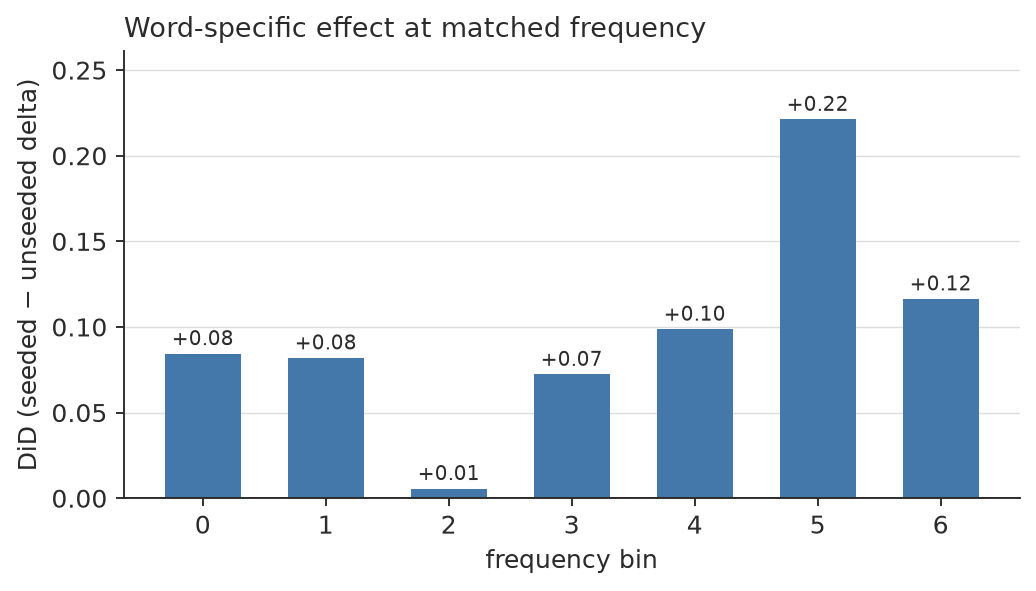
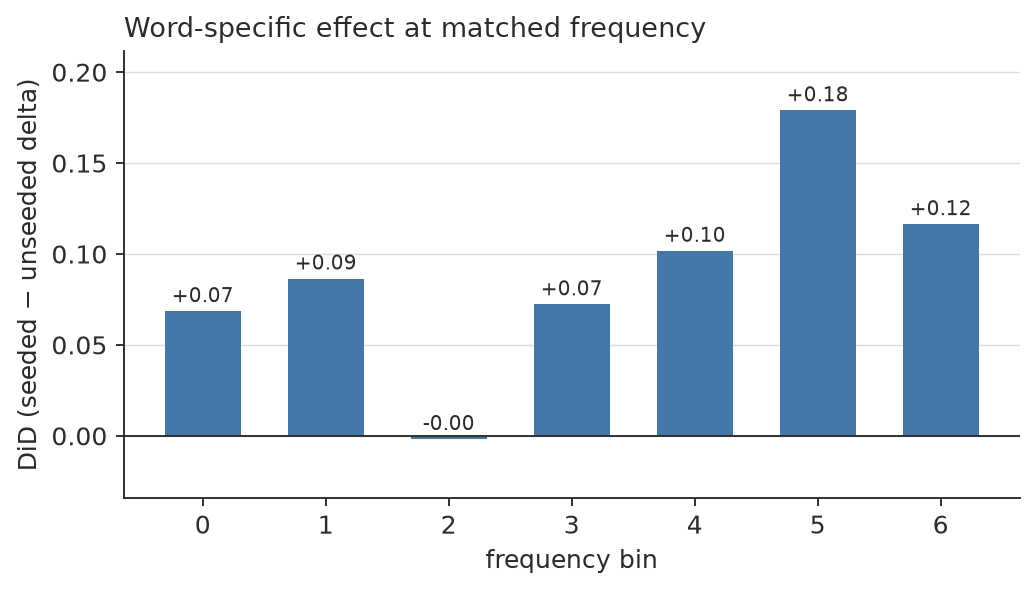
Regenerate VP-Swap results and figures after article-agreement fix

diff --git a/eval/vpswap_results.md b/eval/vpswap_results.md
@@ -6,101 +6,101 @@ vision-init: `deberta-base-75k-sam` | baseline: `deberta-base-75k`
 
 | words (M) | vision | baseline | delta |
 |--:|--:|--:|--:|
-| 0 | 0.492 | 0.503 | -0.011 |
-| 1 | 0.514 | 0.498 | +0.016 |
-| 2 | 0.527 | 0.501 | +0.025 |
-| 3 | 0.536 | 0.502 | +0.034 |
-| 4 | 0.536 | 0.502 | +0.034 |
-| 5 | 0.536 | 0.502 | +0.034 |
-| 6 | 0.546 | 0.512 | +0.034 |
-| 7 | 0.546 | 0.512 | +0.034 |
-| 8 | 0.546 | 0.512 | +0.034 |
-| 9 | 0.546 | 0.512 | +0.034 |
-| 10 | 0.549 | 0.512 | +0.037 |
-| 20 | 0.561 | 0.529 | +0.032 |
-| 30 | 0.580 | 0.546 | +0.035 |
-| 40 | 0.586 | 0.559 | +0.028 |
-| 50 | 0.603 | 0.568 | +0.035 |
-| 60 | 0.612 | 0.589 | +0.023 |
-| 70 | 0.621 | 0.598 | +0.023 |
-| 80 | 0.634 | 0.611 | +0.023 |
-| 90 | 0.632 | 0.613 | +0.019 |
-| 100 | 0.634 | 0.615 | +0.019 |
+| 0 | 0.489 | 0.499 | -0.010 |
+| 1 | 0.504 | 0.495 | +0.009 |
+| 2 | 0.516 | 0.490 | +0.026 |
+| 3 | 0.521 | 0.486 | +0.035 |
+| 4 | 0.521 | 0.486 | +0.035 |
+| 5 | 0.521 | 0.486 | +0.035 |
+| 6 | 0.529 | 0.497 | +0.032 |
+| 7 | 0.529 | 0.497 | +0.032 |
+| 8 | 0.529 | 0.497 | +0.032 |
+| 9 | 0.529 | 0.497 | +0.032 |
+| 10 | 0.534 | 0.496 | +0.037 |
+| 20 | 0.543 | 0.511 | +0.031 |
+| 30 | 0.562 | 0.527 | +0.035 |
+| 40 | 0.566 | 0.540 | +0.026 |
+| 50 | 0.584 | 0.548 | +0.036 |
+| 60 | 0.592 | 0.568 | +0.025 |
+| 70 | 0.602 | 0.576 | +0.025 |
+| 80 | 0.614 | 0.588 | +0.026 |
+| 90 | 0.611 | 0.590 | +0.021 |
+| 100 | 0.613 | 0.591 | +0.022 |
 
 ## Final checkpoint (100M), 7416 paired items
 
-McNemar: vision-only-correct 789, baseline-only-correct 647, **z = 3.75**
+McNemar: vision-only-correct 776, baseline-only-correct 613, **z = 4.37**
 
 
 ### by property
 
 | group | n | vision | baseline | delta |
 |--|--:|--:|--:|--:|
-| color | 1730 | 0.655 | 0.622 | +0.034 |
-| material | 1928 | 0.658 | 0.644 | +0.013 |
-| relative_size | 1888 | 0.609 | 0.596 | +0.013 |
-| shape | 1870 | 0.614 | 0.596 | +0.018 |
+| color | 1730 | 0.639 | 0.605 | +0.035 |
+| material | 1928 | 0.646 | 0.631 | +0.015 |
+| relative_size | 1888 | 0.575 | 0.560 | +0.015 |
+| shape | 1870 | 0.594 | 0.570 | +0.024 |
 
 ### by frame
 
 | group | n | vision | baseline | delta |
 |--|--:|--:|--:|--:|
 | attributive | 1890 | 0.658 | 0.635 | +0.023 |
-| copular | 1244 | 0.562 | 0.578 | -0.016 |
-| existential | 1680 | 0.674 | 0.643 | +0.030 |
-| relative | 2602 | 0.625 | 0.598 | +0.026 |
+| copular | 1244 | 0.469 | 0.470 | -0.001 |
+| existential | 1680 | 0.652 | 0.621 | +0.031 |
+| relative | 2602 | 0.624 | 0.598 | +0.027 |
 
 ### by seeded (orig word)
 
 | group | n | vision | baseline | delta |
 |--|--:|--:|--:|--:|
-| seeded | 6242 | 0.657 | 0.625 | +0.032 |
-| unseeded | 1174 | 0.512 | 0.560 | -0.048 |
+| seeded | 6242 | 0.636 | 0.602 | +0.034 |
+| unseeded | 1174 | 0.493 | 0.533 | -0.040 |
 
 ### by frequency bin
 
 | group | n | vision | baseline | delta |
 |--|--:|--:|--:|--:|
-| 0 | 642 | 0.522 | 0.526 | -0.005 |
-| 1 | 734 | 0.535 | 0.545 | -0.010 |
-| 2 | 650 | 0.526 | 0.517 | +0.009 |
-| 3 | 794 | 0.525 | 0.523 | +0.003 |
-| 4 | 778 | 0.589 | 0.582 | +0.006 |
-| 5 | 756 | 0.669 | 0.626 | +0.044 |
-| 6 | 800 | 0.720 | 0.676 | +0.044 |
-| 7 | 804 | 0.733 | 0.695 | +0.037 |
-| 8 | 752 | 0.735 | 0.707 | +0.028 |
+| 0 | 642 | 0.497 | 0.497 | +0.000 |
+| 1 | 734 | 0.512 | 0.511 | +0.001 |
+| 2 | 650 | 0.492 | 0.483 | +0.009 |
+| 3 | 794 | 0.520 | 0.518 | +0.003 |
+| 4 | 778 | 0.564 | 0.555 | +0.009 |
+| 5 | 756 | 0.630 | 0.585 | +0.045 |
+| 6 | 800 | 0.714 | 0.670 | +0.044 |
+| 7 | 804 | 0.700 | 0.658 | +0.042 |
+| 8 | 752 | 0.718 | 0.686 | +0.032 |
 | 9 | 706 | 0.752 | 0.724 | +0.028 |
 
 ### Seeded-vs-unseeded delta within frequency bins (diff-in-differences)
 
 | bin | n seeded | d seeded | n unseeded | d unseeded | DiD |
 |--:|--:|--:|--:|--:|--:|
-| 0 | 330 | +0.036 | 312 | -0.048 | +0.084 |
-| 1 | 481 | +0.019 | 253 | -0.063 | +0.082 |
-| 2 | 459 | +0.011 | 191 | +0.005 | +0.006 |
+| 0 | 330 | +0.033 | 312 | -0.035 | +0.069 |
+| 1 | 481 | +0.031 | 253 | -0.055 | +0.087 |
+| 2 | 459 | +0.009 | 191 | +0.010 | -0.002 |
 | 3 | 630 | +0.017 | 164 | -0.055 | +0.072 |
-| 4 | 662 | +0.021 | 116 | -0.078 | +0.099 |
-| 5 | 707 | +0.058 | 49 | -0.163 | +0.221 |
+| 4 | 662 | +0.024 | 116 | -0.078 | +0.102 |
+| 5 | 707 | +0.057 | 49 | -0.122 | +0.179 |
 | 6 | 737 | +0.053 | 63 | -0.063 | +0.116 |
-| 7 | 781 | +0.035 | 23 | -- | -- |
-| 8 | 749 | +0.027 | 3 | -- | -- |
+| 7 | 781 | +0.040 | 23 | -- | -- |
+| 8 | 749 | +0.031 | 3 | -- | -- |
 | 9 | 706 | +0.028 | 0 | -- | -- |
 
 ### 2x2 orig-seeded x swap-seeded @ chck_50M
 
 | orig | swap | n | vision | baseline | delta |
 |--|--|--:|--:|--:|--:|
-| S | S | 5378 | 0.624 | 0.583 | +0.041 |
-| S | U | 864 | 0.594 | 0.542 | +0.052 |
-| U | S | 864 | 0.508 | 0.516 | -0.008 |
-| U | U | 310 | 0.523 | 0.523 | +0.000 |
+| S | S | 5378 | 0.607 | 0.563 | +0.044 |
+| S | U | 864 | 0.571 | 0.520 | +0.051 |
+| U | S | 864 | 0.485 | 0.498 | -0.013 |
+| U | U | 310 | 0.500 | 0.497 | +0.003 |
 
 ### 2x2 orig-seeded x swap-seeded @ chck_100M
 
 | orig | swap | n | vision | baseline | delta |
 |--|--|--:|--:|--:|--:|
-| S | S | 5378 | 0.666 | 0.638 | +0.029 |
-| S | U | 864 | 0.596 | 0.545 | +0.051 |
-| U | S | 864 | 0.502 | 0.559 | -0.057 |
-| U | U | 310 | 0.539 | 0.561 | -0.023 |
+| S | S | 5378 | 0.647 | 0.616 | +0.031 |
+| S | U | 864 | 0.568 | 0.517 | +0.051 |
+| U | S | 864 | 0.485 | 0.534 | -0.049 |
+| U | U | 310 | 0.516 | 0.532 | -0.016 |

diff --git a/eval/seed_results.md b/eval/seed_results.md
@@ -4,32 +4,32 @@
 
 | words (M) | s1 | s2 | s3 | mean |
 |--:|--:|--:|--:|--:|
-| 0 | -0.011 | -0.003 | -0.001 | -0.005 |
-| 1 | +0.016 | +0.021 | +0.018 | +0.018 |
-| 2 | +0.025 | +0.023 | +0.023 | +0.024 |
-| 3 | +0.034 | +0.035 | +0.032 | +0.033 |
-| 4 | +0.034 | +0.035 | +0.032 | +0.033 |
-| 5 | +0.034 | +0.035 | +0.032 | +0.033 |
-| 6 | +0.034 | +0.039 | +0.038 | +0.037 |
-| 7 | +0.034 | +0.039 | +0.038 | +0.037 |
-| 8 | +0.034 | +0.039 | +0.038 | +0.037 |
-| 9 | +0.034 | +0.039 | +0.038 | +0.037 |
-| 10 | +0.037 | +0.017 | +0.032 | +0.029 |
-| 20 | +0.032 | +0.024 | +0.022 | +0.026 |
-| 30 | +0.035 | +0.031 | +0.028 | +0.031 |
-| 40 | +0.028 | +0.015 | +0.037 | +0.027 |
-| 50 | +0.035 | +0.022 | +0.031 | +0.029 |
-| 60 | +0.023 | +0.029 | +0.027 | +0.026 |
-| 70 | +0.023 | +0.030 | +0.034 | +0.029 |
-| 80 | +0.023 | +0.041 | +0.026 | +0.030 |
-| 90 | +0.019 | +0.029 | +0.029 | +0.026 |
-| 100 | +0.019 | +0.027 | +0.030 | +0.025 |
+| 0 | -0.010 | -0.009 | -0.002 | -0.007 |
+| 1 | +0.009 | +0.015 | +0.013 | +0.012 |
+| 2 | +0.026 | +0.027 | +0.028 | +0.027 |
+| 3 | +0.035 | +0.036 | +0.030 | +0.034 |
+| 4 | +0.035 | +0.036 | +0.030 | +0.034 |
+| 5 | +0.035 | +0.036 | +0.030 | +0.034 |
+| 6 | +0.032 | +0.040 | +0.040 | +0.037 |
+| 7 | +0.032 | +0.040 | +0.040 | +0.037 |
+| 8 | +0.032 | +0.040 | +0.040 | +0.037 |
+| 9 | +0.032 | +0.040 | +0.040 | +0.037 |
+| 10 | +0.037 | +0.015 | +0.032 | +0.028 |
+| 20 | +0.031 | +0.024 | +0.023 | +0.026 |
+| 30 | +0.035 | +0.034 | +0.028 | +0.032 |
+| 40 | +0.026 | +0.016 | +0.039 | +0.027 |
+| 50 | +0.036 | +0.023 | +0.031 | +0.030 |
+| 60 | +0.025 | +0.027 | +0.026 | +0.026 |
+| 70 | +0.025 | +0.030 | +0.033 | +0.030 |
+| 80 | +0.026 | +0.040 | +0.025 | +0.030 |
+| 90 | +0.021 | +0.028 | +0.028 | +0.026 |
+| 100 | +0.022 | +0.027 | +0.029 | +0.026 |
 
 ## Final checkpoint (chck_100M) per seed
 
-- **s1**: overall 0.634 vs 0.615 (delta +0.019), McNemar z = 3.75; seeded delta +0.032, unseeded -0.048
-- **s2**: overall 0.632 vs 0.605 (delta +0.027), McNemar z = 5.29; seeded delta +0.030, unseeded +0.008
-- **s3**: overall 0.636 vs 0.606 (delta +0.030), McNemar z = 5.90; seeded delta +0.029, unseeded +0.036
+- **s1**: overall 0.613 vs 0.591 (delta +0.022), McNemar z = 4.37; seeded delta +0.034, unseeded -0.040
+- **s2**: overall 0.612 vs 0.585 (delta +0.027), McNemar z = 5.44; seeded delta +0.031, unseeded +0.006
+- **s3**: overall 0.615 vs 0.585 (delta +0.029), McNemar z = 5.79; seeded delta +0.030, unseeded +0.026
 
 ## Zero-shot task deltas per seed (main revision)
 
